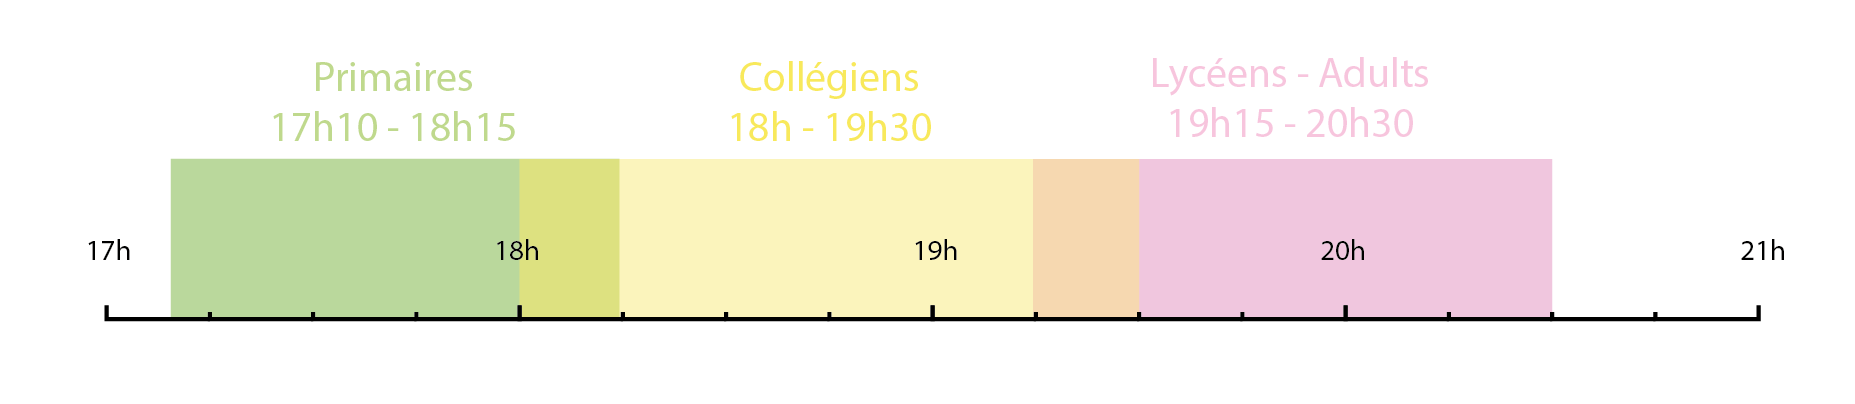
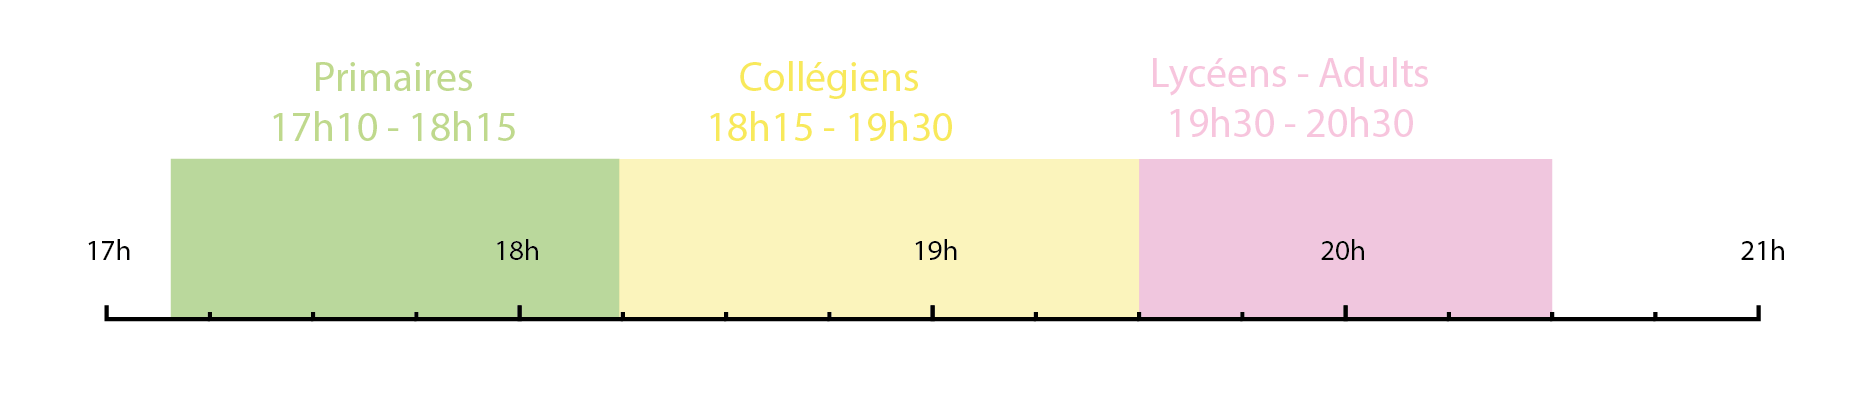
update 11/11/2025

diff --git a/pages/index.js b/pages/index.js
@@ -45,9 +45,8 @@ export default function Accueil() {
           title="La pédagogie"
           subtitle=""
           highlights={[
-            {illustration:'/images/VivreE.png', title:'Le vivre ensemble', text:'Mise en place de créneaux qui se chevauchent pour qu\' il y ait plus d\’interactions pendant les cours, organisation d\'événements internes pendant l\'année: rencontre parents/enfants, compétition par équipe anciens/nouveaux...'},
+            {illustration:'/images/VivreE.png', title:'Le vivre ensemble', text:'organisation d\'événements internes pendant l\'année: rencontre parents/enfants, compétition par équipe anciens/nouveaux...'},
             {illustration:'/images/RoleMini.png', title:'Les différents rôles', text:'Le maître d\'armes donnera des progressions écritent dans les différents rôles de l\'escrimeur: Tireur, Mini-maître, Arbitre, et Bénévole. Les enfants auront une référence pour leurs progressions.'},
-            {illustration:'/images/feedback.png', title:'Un retour des séances sur le Blog', text:'Le maître d\'armes écrira régulièrement sur le blog un retour sur les avancements des élèves, les parents pourront donc suivre à distance le déroulement des cours et l\'avancement des enfants !'},
           ]}
         />
 
@@ -58,7 +57,7 @@ export default function Accueil() {
           features={[
             {illustration:'/images/MarcFranco.png', title:'Marc FRANCO', text:'Président'},
             {illustration:'/images/OdileChemineau.png', title:'Odile CHEMINEAU', text:'Trésorière'},
-            {illustration:'/images/FabienHallez.png', title:'Fabien HALLEZ', text:'Secrétaire'},
+            {illustration:'/images/BrunoRoustant.png', title:'Bruno ROUSTANT', text:'Secrétaire'},
             {illustration:'/images/ArthurV.png', title:'Arthur VINCENT', text:'Maître d\'armes'},
           ]}
         />
